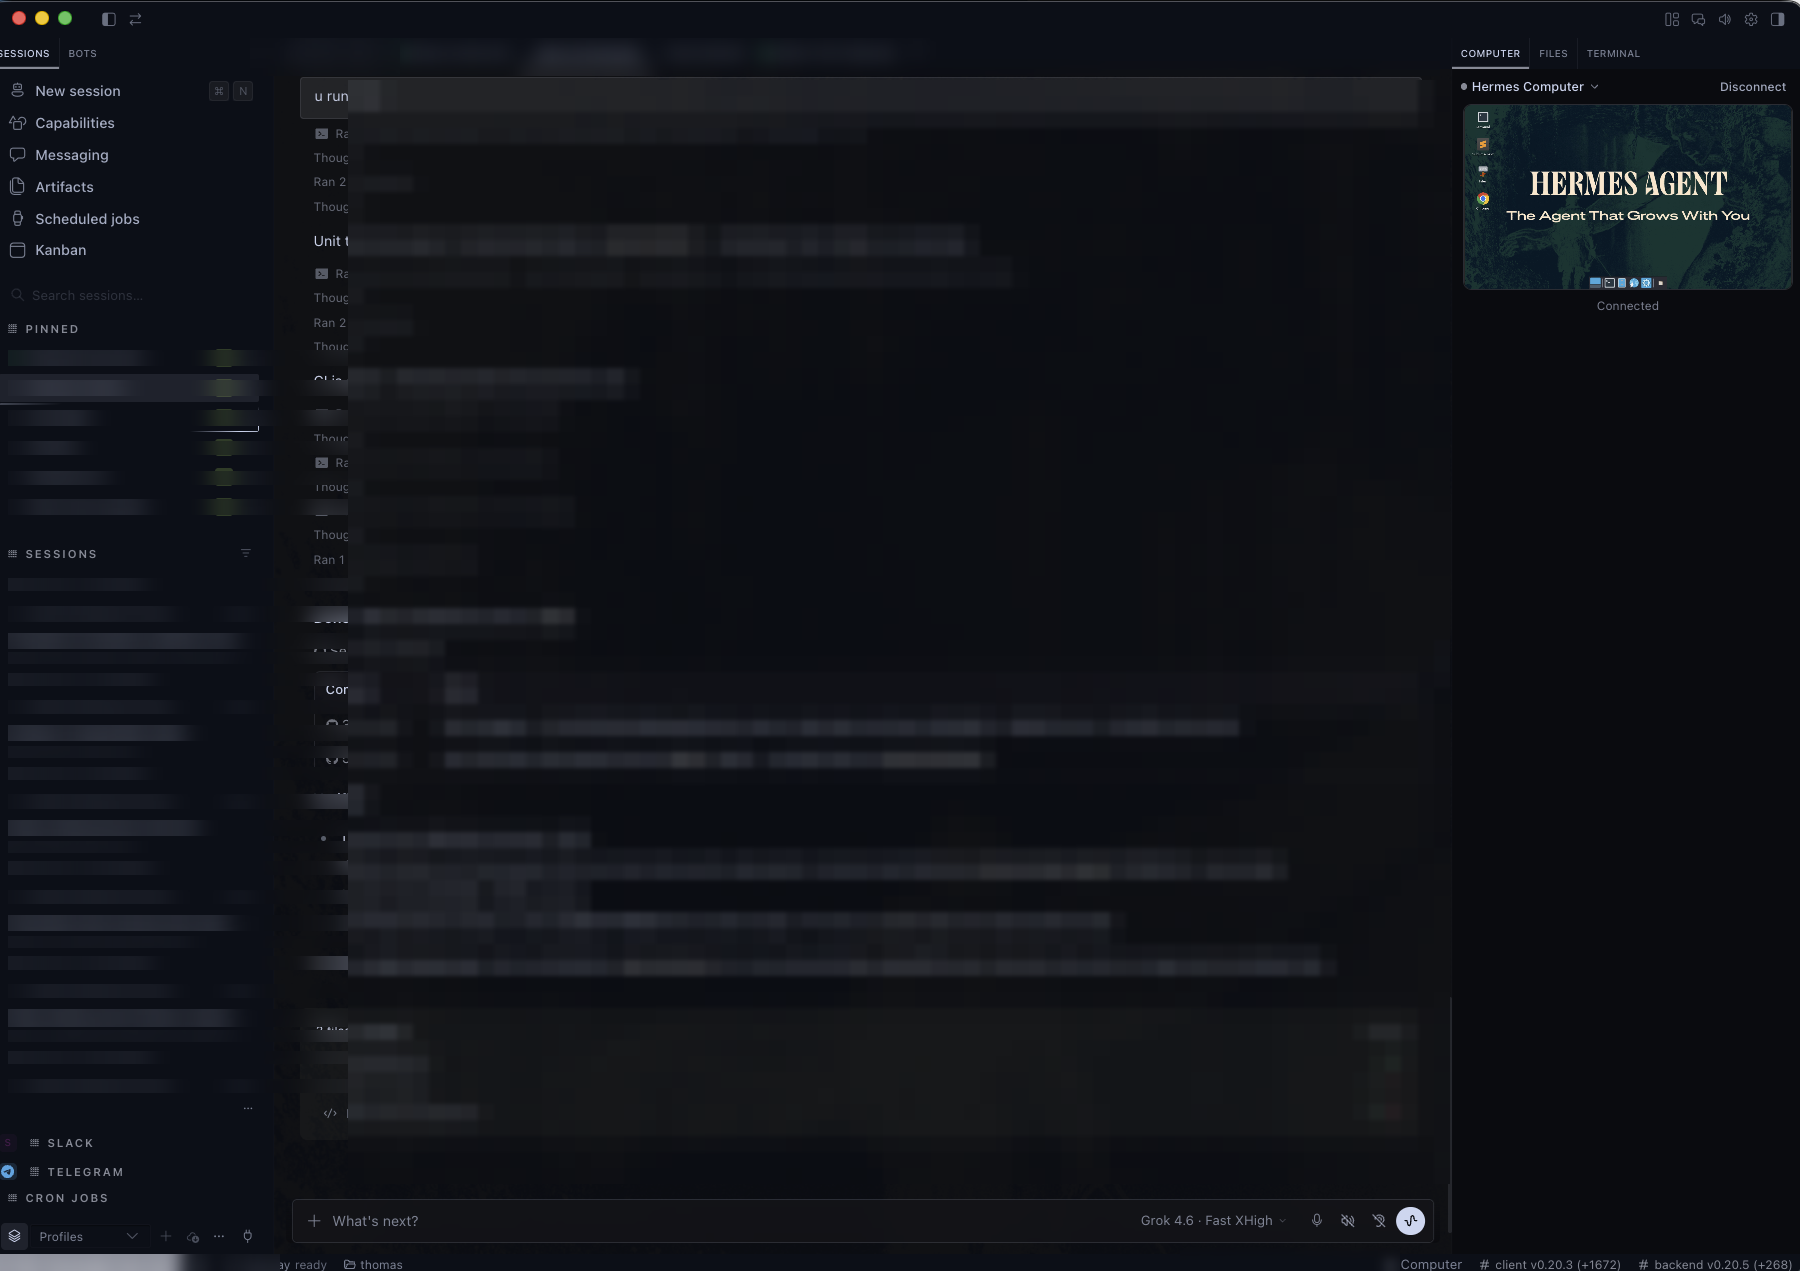
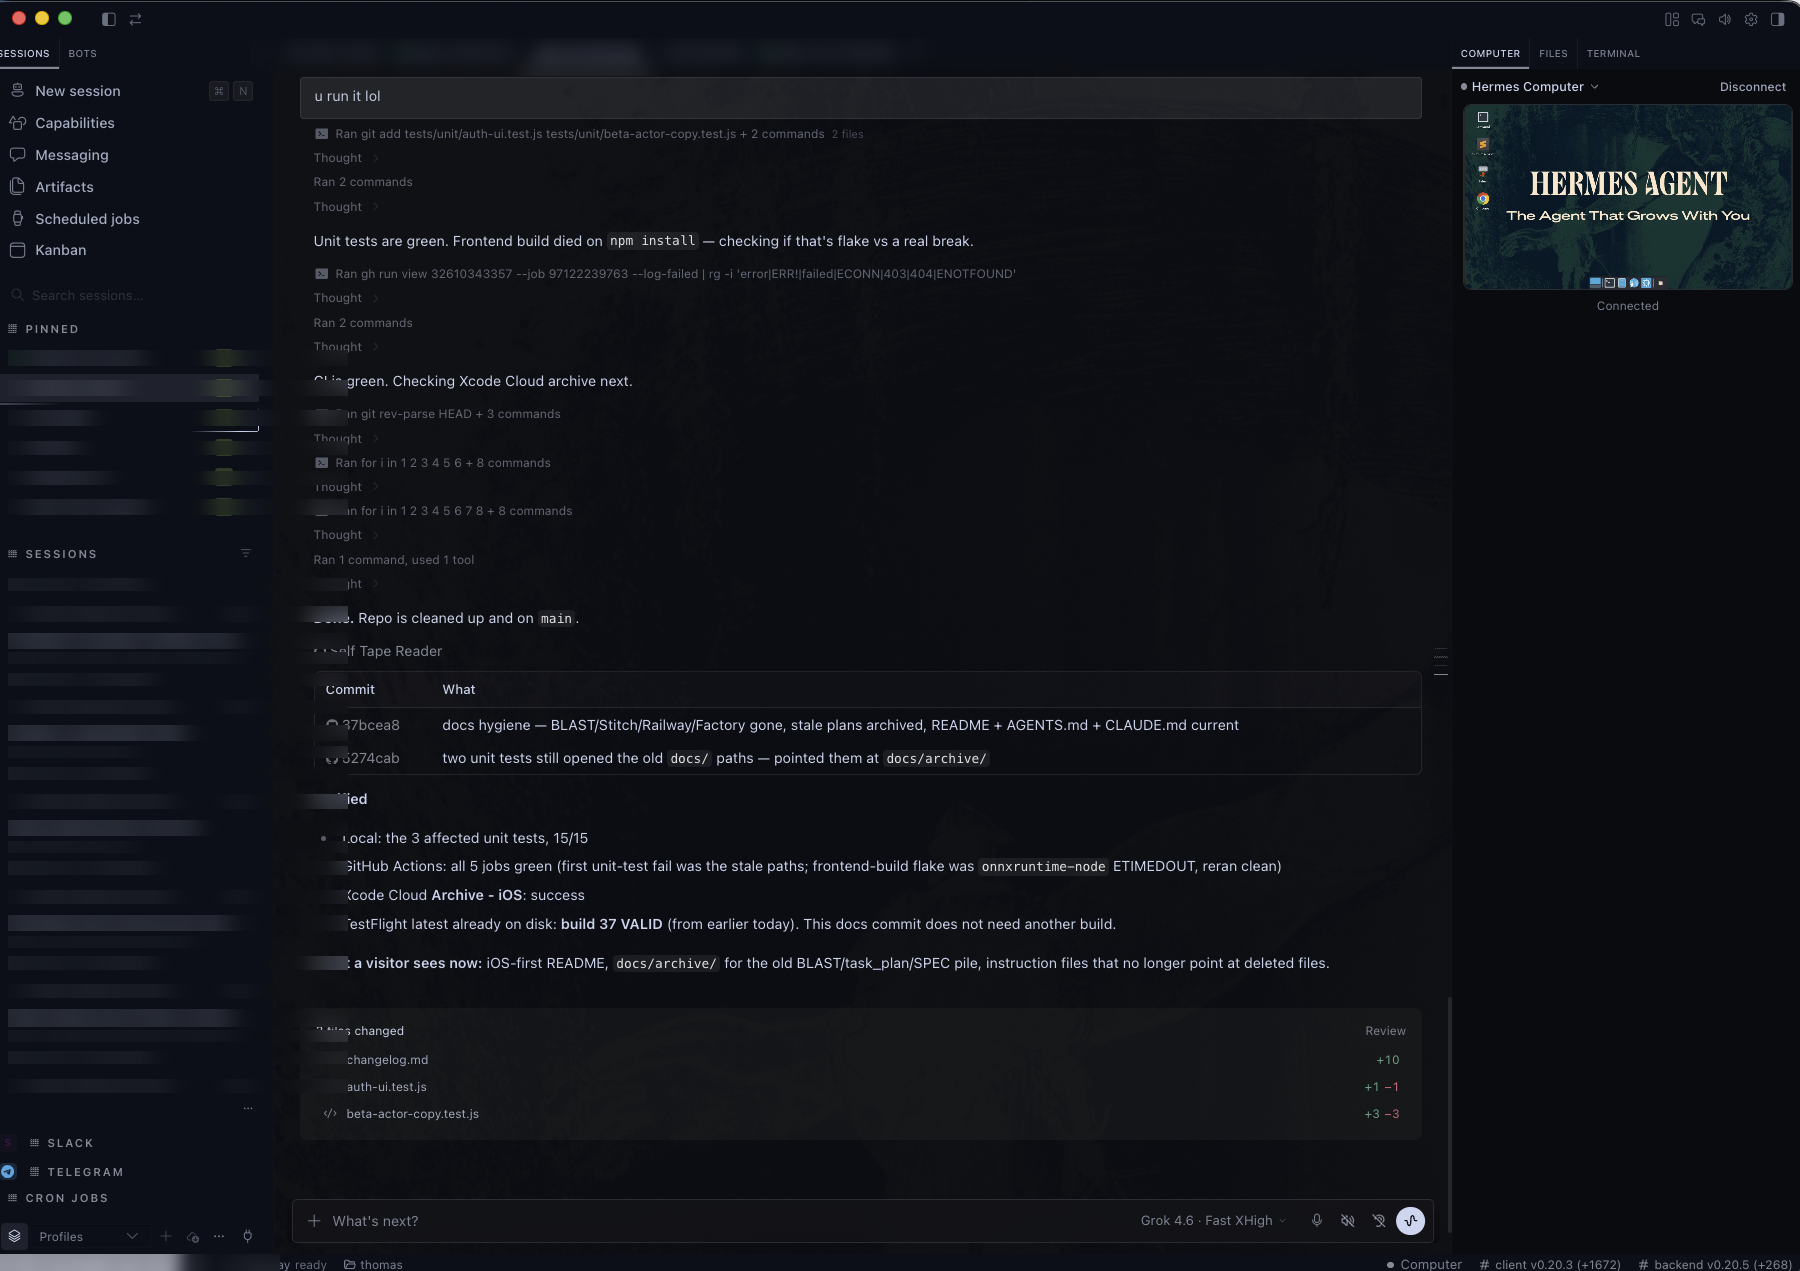
Hero screenshot: keep center chat readable; blur only session names.

diff --git a/README.md b/README.md
@@ -24,7 +24,7 @@ watchable from one pane, like a KVM switch for your agent fleet.
   <img src="screenshots/app-view.png" alt="Computer pane docked in Hermes Desktop" width="720">
 </p>
 <p align="center"><em>The Computer pane docked in Hermes Desktop — live remote desktop
-on the right. Session names and chat text blurred.</em></p>
+on the right. Session names in the sidebar and tabs blurred.</em></p>
 
 <p align="center">
   <img src="screenshots/live-view.png" alt="Live remote desktop view" width="560">
